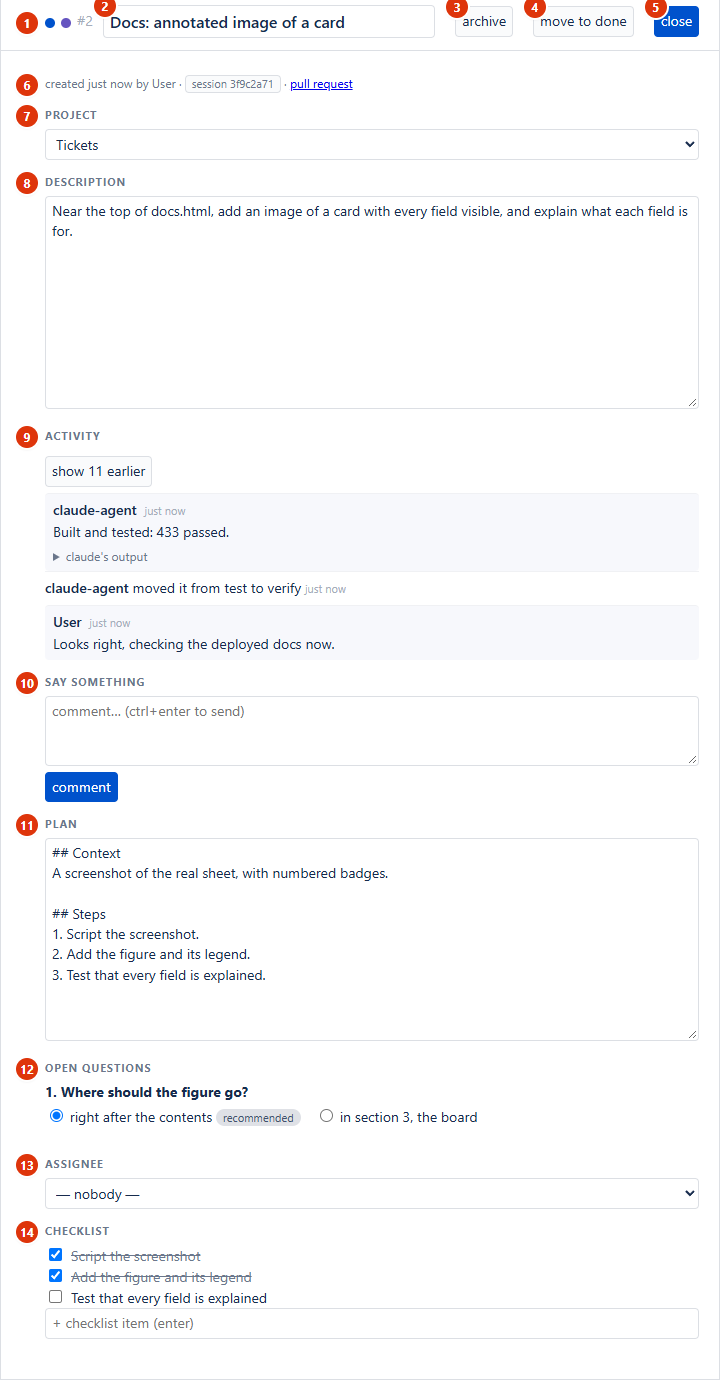
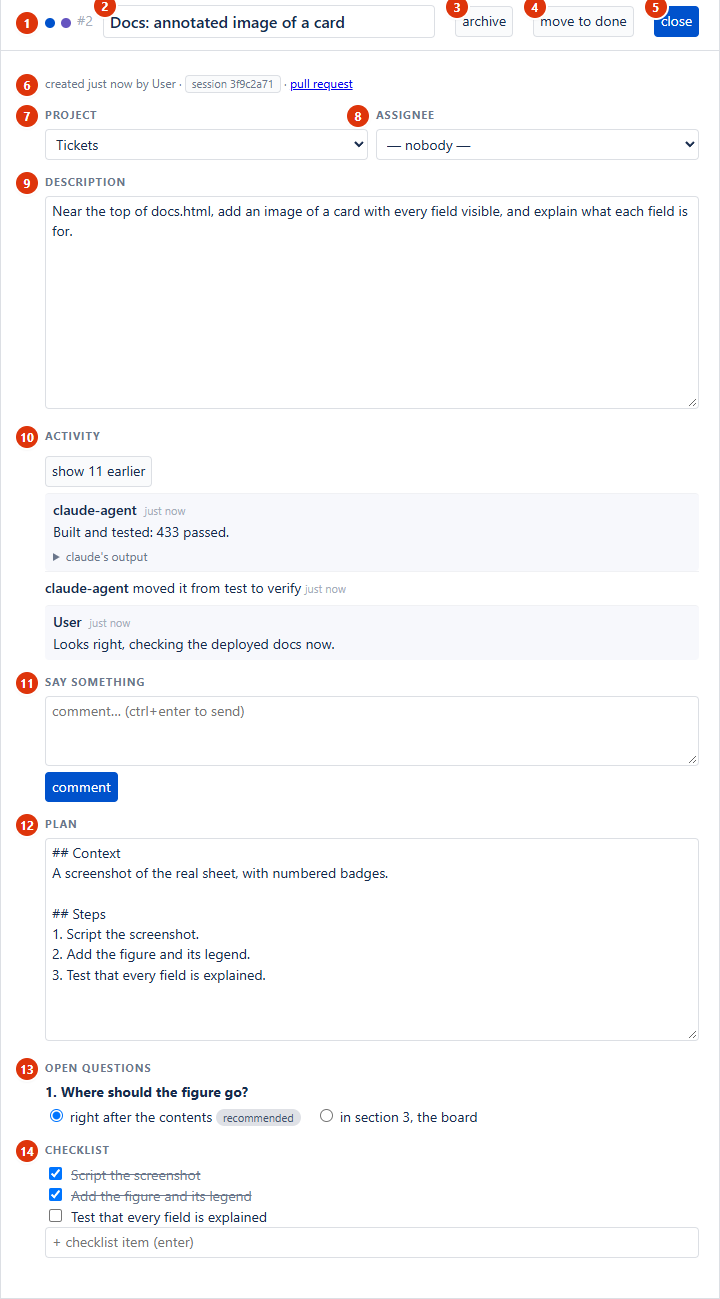
#704 Place assignee beside project in the card editor

diff --git a/docs.html b/docs.html
@@ -78,6 +78,8 @@ board</a> has the details.</p>
     a "pull request" link when it landed by one.</li>
   <li data-field="project"><b>project</b>: the repo the card belongs to, and so the folder
     the agent works in.</li>
+  <li data-field="assignee"><b>assignee</b>: who has the card: you, or an agent while it
+    works. A card assigned to a person is never taken by an agent.</li>
   <li data-field="description"><b>description</b>: your request: what you want and why. The
     agent never writes over it.</li>
   <li data-field="activity"><b>activity</b>: everything that happened to the card and who did
@@ -94,8 +96,6 @@ board</a> has the details.</p>
     with options gets radio buttons, the agent's pick marked "recommended"; one without gets
     a small one-line text input. A click or a typed line is your answer, saved at once; the
     next run replans with them. There is no separate answers box. Hidden while there are none.</li>
-  <li data-field="assignee"><b>assignee</b>: who has the card: you, or an agent while it
-    works. A card assigned to a person is never taken by an agent.</li>
   <li data-field="checklist"><b>checklist</b>: steps to tick off. The agent ticks its plan's
     steps as it finishes them, and the board card shows done/total.</li>
 </ol>
@@ -239,8 +239,8 @@ again.</p>
   <li><b>docs</b>: opens this manual in a new tab.</li>
   <li><b>New Card</b>: opens a draft. Nothing is saved until you close it. The draft
     starts in the project of the tab you are on, or the first project under All; the
-    project picker under the title changes it. A draft has no activity log or comment
-    box: comments come once the card exists. A link is checked as you add it; close
+    project picker under the title changes it; assignee sits beside it. A draft has no
+    activity log or comment box: comments come once the card exists. A link is checked as you add it; close
     while that check is still running and the card waits for it, then is created with
     the link. "move to plan", next to "close", creates the card straight in
     <code>plan</code> (whatever the lane picker says) and closes the draft, ready for the
@@ -254,9 +254,10 @@ again.</p>
     page puts it in the nearest column. A card an agent moves lands at the bottom of the
     lane it arrives in.</li>
   <li>Click a card to open its sheet. Every field saves as soon as you leave it, so there is
-    no save button; "close", or a click on the board around the sheet, closes it. The sheet holds the project, the description and, right under
-    it, the activity log with its comments and the box to add one; then the plan, the
-    open questions with a row of answers under each, the assignee, the checklist and "archive".
+    no save button; "close", or a click on the board around the sheet, closes it. The sheet
+    starts with project and assignee side by side (stacked on narrow screens), then the
+    description and, right under it, the activity log with its comments and the box to add one; then the plan, the
+    open questions with a row of answers under each, the checklist and "archive".
     Existing cards hide the lane picker, labels and links (parent and blocks); editing
     other fields keeps those values. Move lanes by dragging on the board, or use "move to done"
     in verify. New-card drafts still offer lane, labels and links when creating the card.

diff --git a/board.html b/board.html
@@ -154,6 +154,7 @@
   #panel h3 { margin: 14px 0 6px; font-size: 11px; text-transform: uppercase;
                letter-spacing: .08em; color: var(--dim); }
   #panel .row { display: flex; gap: 8px; align-items: center; flex-wrap: wrap; }
+  #panel .editor-people > div { flex: 1 1 12rem; min-width: 0; }
   #panel input[type=text], #panel textarea, #panel select { width: 100%; }
   #panel textarea { min-height: 70px; resize: vertical; }
   /* grows with its text, natively: 10 lines at least, 50 at most, then it scrolls */
@@ -1242,7 +1243,16 @@ function renderPanel() {
     pj.prepend(gone);
   }
   pj.onchange = () => patch({ project: pj.value });
-  p.append(field("project", pj));
+  const asg = document.createElement("select");
+  asg.append(new Option("— nobody —", "", false, !c.assignee));
+  for (const u of users) asg.append(new Option(u, u, false, u === c.assignee));
+  if (c.assignee && !users.includes(c.assignee))
+    asg.append(new Option(c.assignee, c.assignee, false, true));
+  asg.onchange = () => patch({ assignee: asg.value || null });
+
+  const people = Object.assign(document.createElement("div"), { className: "row editor-people" });
+  people.append(field("project", pj), field("assignee", asg));
+  p.append(people);
 
   const desc = Object.assign(document.createElement("textarea"),
     { value: c.description, className: "desc" });
@@ -1300,30 +1310,13 @@ function renderPanel() {
     back.setSelectionRange(...answering.at);
   }
 
-  const row = document.createElement("div");
-  row.className = "row";
-
-  const asg = document.createElement("select");
-  asg.append(new Option("— nobody —", "", false, !c.assignee));
-  for (const u of users) asg.append(new Option(u, u, false, u === c.assignee));
-  if (c.assignee && !users.includes(c.assignee))
-    asg.append(new Option(c.assignee, c.assignee, false, true));
-  asg.onchange = () => patch({ assignee: asg.value || null });
-
-  const fields = [["assignee", asg]];
   // Saved cards move on the board; only creation needs a lane picker (#689).
   if (!c.id) {
     const lane = document.createElement("select");
     for (const v of LANES) lane.append(new Option(v, v, false, v === c.lane));
     lane.onchange = () => patch({ lane: lane.value });
-    fields.push(["lane", lane]);
+    p.append(field("lane", lane));
   }
-  for (const [name, node] of fields) {
-    const w = field(name, node);
-    w.style.flex = "1 1 45%";
-    row.append(w);
-  }
-  p.append(row);
 
   if (!c.id) {
     const labels = Object.assign(document.createElement("input"),

diff --git a/test_board.py b/test_board.py
@@ -1334,15 +1334,65 @@ def sheet_heads(page, cid):
     return each(page, "#panel h3", "ns => ns.map(n => n.textContent)")
 
 
+@pytest.mark.parametrize("draft", [False, True], ids=["saved", "draft"])
+@pytest.mark.parametrize("width", [1280, 360], ids=["wide", "narrow"])
+def test_project_and_assignee_share_the_top_editor_row_and_save(page, draft, width):
+    """#704: both editors pair these fields, wrap when needed and save both values."""
+    project = "Another project with a long descriptive name"
+    assignee = "A person with a long descriptive name"
+    core.create_project(project)
+    core.ensure_user(assignee)
+    cid = None if draft else core.create_card("assignment", "User", project="Home")["id"]
+    page.set_viewport_size({"width": width, "height": 900})
+    page.evaluate("load()")
+    page.wait_for_function("name => users.includes(name)", arg=assignee)
+    if draft:
+        page.click("#add")
+        page.fill("#panel .head input", "assignment")
+    else:
+        sheet_heads(page, cid)
+    fields = "#panel div:has(> h3:text-is('{}')) select"
+    pj, asg = fields.format("project"), fields.format("assignee")
+    boxes = [page.locator(sel).bounding_box() for sel in (pj, asg)]
+    left, right = boxes
+    description = page.locator("#panel textarea.desc").bounding_box()
+    assert max(b["y"] + b["height"] for b in boxes) <= description["y"]
+    if width == 1280:
+        assert abs(left["y"] - right["y"]) < 1
+        assert left["x"] + left["width"] <= right["x"]
+    else:
+        assert right["y"] >= left["y"] + left["height"]
+        panel = page.locator("#panel").bounding_box()
+        for box in boxes:
+            assert box["width"] >= 150
+            assert panel["x"] <= box["x"]
+            assert box["x"] + box["width"] <= panel["x"] + panel["width"]
+    page.select_option(pj, project)
+    if not draft:
+        wait_saved(page, cid, "project", project)
+    page.select_option(asg, assignee)
+    if not draft:
+        wait_saved(page, cid, "assignee", assignee)
+    else:
+        lane = fields.format("lane")
+        page.select_option(lane, "plan")
+        assert core.list_cards() == [], "picker edits still wait for draft creation"
+    close_sheet(page)
+    if draft:
+        cid = created(page)
+    card = core.get_card(cid)
+    assert (card["project"], card["assignee"]) == (project, assignee)
+    assert card["lane"] == ("plan" if draft else "todo")
+
+
 def test_the_comments_sit_right_under_the_description(page):
     """#95: the log with its comments, then the comment box, come straight after the
-    description -- above the plan round, assignee and checklist."""
+    description -- above the plan round and checklist."""
     cid = core.create_card("plain", actor="ce", project="Home")["id"]
     core.comment(cid, "claude-agent", "an agent's note")
     heads = sheet_heads(page, cid)
-    assert heads[:4] == ["project", "description", "activity", "say something"], heads
-    for later in ("assignee", "checklist"):
-        assert heads.index(later) > heads.index("say something"), (later, heads)
+    assert heads[:5] == ["project", "assignee", "description", "activity", "say something"], heads
+    assert heads.index("checklist") > heads.index("say something"), heads
     desc = page.locator("#panel textarea.desc").bounding_box()
     log = page.locator("#panel .log").bounding_box()
     box = page.locator("#panel .say-box").bounding_box()
@@ -1355,8 +1405,8 @@ def test_the_comments_come_before_a_planned_cards_plan(page):
     core.update_card(cid, "claude-agent", plan="## Steps\n1. do it",
                      questions="1. which?", answers="this one")
     heads = sheet_heads(page, cid)
-    assert heads[:4] == ["project", "description", "activity", "say something"], heads
-    assert heads[4:6] == ["plan", "open questions"], heads
+    assert heads[:5] == ["project", "assignee", "description", "activity", "say something"], heads
+    assert heads[5:7] == ["plan", "open questions"], heads
     assert "your answers" not in heads, heads
 
 
@@ -1366,7 +1416,7 @@ def test_a_draft_has_no_comments_under_its_description(page):
     page.click("#add")
     page.wait_for_selector("#panel.on")
     heads = each(page, "#panel h3", "ns => ns.map(n => n.textContent)")
-    assert heads[:3] == ["project", "description", "assignee"], heads
+    assert heads[:4] == ["project", "assignee", "description", "lane"], heads
     assert "activity" not in heads and "say something" not in heads, heads
     assert page.locator("#panel .say-box").count() == 0
     assert page.evaluate("'comments' in open") is False, "no comment queue on the draft"

diff --git a/docs_card.py b/docs_card.py
@@ -31,12 +31,12 @@ MARKERS = [
     ("close", "btn:close"),
     ("origin", "#panel > .sub"),
     ("project", "h3:project"),
+    ("assignee", "h3:assignee"),
     ("description", "h3:description"),
     ("activity", "h3:activity"),
     ("say something", "h3:say something"),
     ("plan", "h3:plan"),
     ("open questions", "h3:open questions"),
-    ("assignee", "h3:assignee"),
     ("checklist", "h3:checklist"),
 ]
 

diff --git a/STATUS.md b/STATUS.md
@@ -170,3 +170,4 @@ below are what keep it safe:
 | #689 | Existing-card edit sheets hide lane, labels and parent/block links while preserving stored metadata; new-card drafts retain those controls, and browser coverage, PLAN.md and docs.html follow | done — browser checks updated |
 | #702 | Dependency-refused browser drops search insertion slots downward then wrap to the top; multi-card retries use accepted placements, other errors stop, and failed cards restore with their reasons | done — +10 checks, 2 tests updated |
 | #701 | Queue and pre-stage readiness checks honor linked blockers and case-insensitive blocked labels, including stalled takeovers; idle gate skips manually held queue cards and preserves verify PR catch-up; PLAN.md and docs.html follow | done — +23 checks |
+| #704 | Card editors place assignee beside project above description, wrapping on narrow screens; drafts keep lane controls; annotated manual figure and browser saving/layout coverage follow | done — +4 checks, 3 tests updated |

diff --git a/PLAN.md b/PLAN.md
@@ -843,6 +843,10 @@ The top of a card's sheet is one sticky header row that stays put while the shee
 scrolls: the card number, the title (edited in place), "archive", "move to done" (only
 while the card is in `verify`) and "close". A new
 card's row is "new", the title, "cancel", "move to plan", "close" (#153).
+Project and assignee share the first field row above description on both saved cards
+and new-card drafts (#704). Each picker grows to use the row, wrapping below the other
+on narrow screens so neither forces horizontal scrolling. Drafts keep their lane picker
+below the description; each field retains its existing save behavior.
 The card number carries the auto dot, which pulses while an agent works the card.
 The line under it says "created <when> by <author>" (the full date on hover; project
 and lane are fields on the sheet, #65), then, once an agent has taken the
